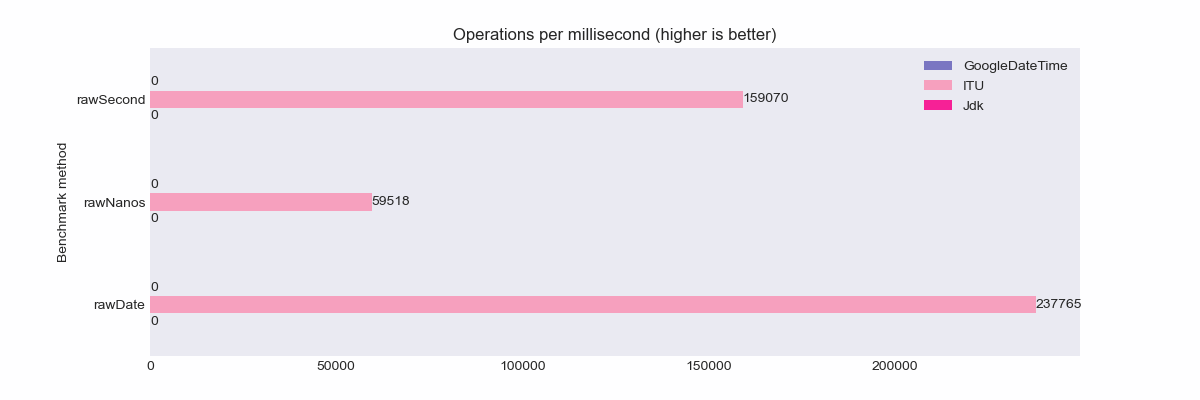
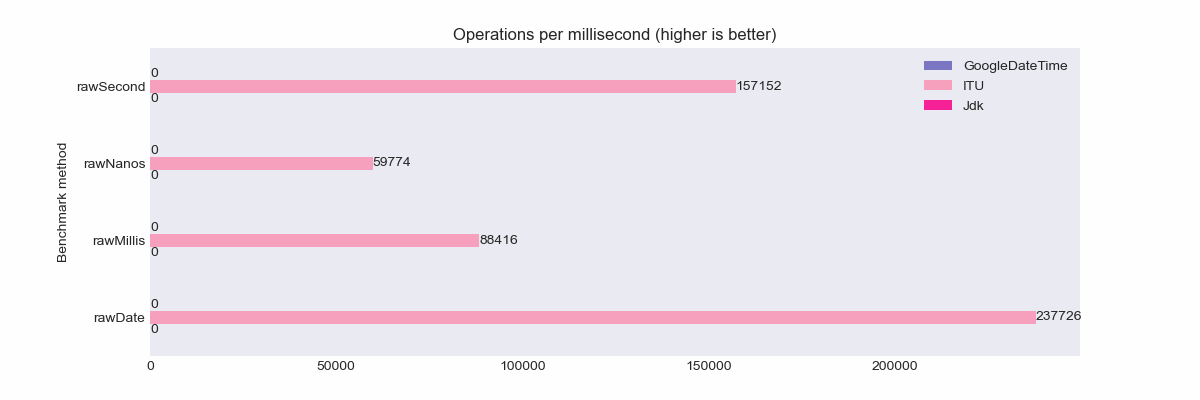
Updated results

diff --git a/src/test/java/common/ParserBenchmarkTest.java b/src/test/java/common/ParserBenchmarkTest.java
@@ -43,6 +43,13 @@ public abstract class ParserBenchmarkTest
     }
 
     @Benchmark
+    public void parseMillis(final Blackhole blackhole)
+    {
+        blackhole.consume(parser.parseDateTime("2017-12-21T12:20:45.123Z"));
+    }
+
+
+    @Benchmark
     public void parseNanos(final Blackhole blackhole)
     {
         blackhole.consume(parser.parseDateTime("2017-12-21T12:20:45.987654321Z"));

diff --git a/src/test/java/candidates/itu/ITULenientParserBenchmarkTest.java b/src/test/java/candidates/itu/ITULenientParserBenchmarkTest.java
@@ -40,6 +40,11 @@ public class ITULenientParserBenchmarkTest {
     }
 
     @Benchmark
+    public void rawMillis(final Blackhole blackhole) {
+        blackhole.consume(ITU.parseLenient("2017-12-21T12:20:45.123Z"));
+    }
+
+    @Benchmark
     public void rawNanos(final Blackhole blackhole) {
         blackhole.consume(ITU.parseLenient("2017-12-21T12:20:45.123123123Z"));
     }

diff --git a/src/test/java/common/FormatterBenchmarkTest.java b/src/test/java/common/FormatterBenchmarkTest.java
@@ -45,6 +45,12 @@ public abstract class FormatterBenchmarkTest
     }
 
     @Benchmark
+    public void formatMillis(final Blackhole blackhole)
+    {
+        blackhole.consume(formatter.formatUtcMilli(input));
+    }
+
+    @Benchmark
     public void formatNanos(final Blackhole blackhole)
     {
         blackhole.consume(formatter.formatUtcNano(input));
